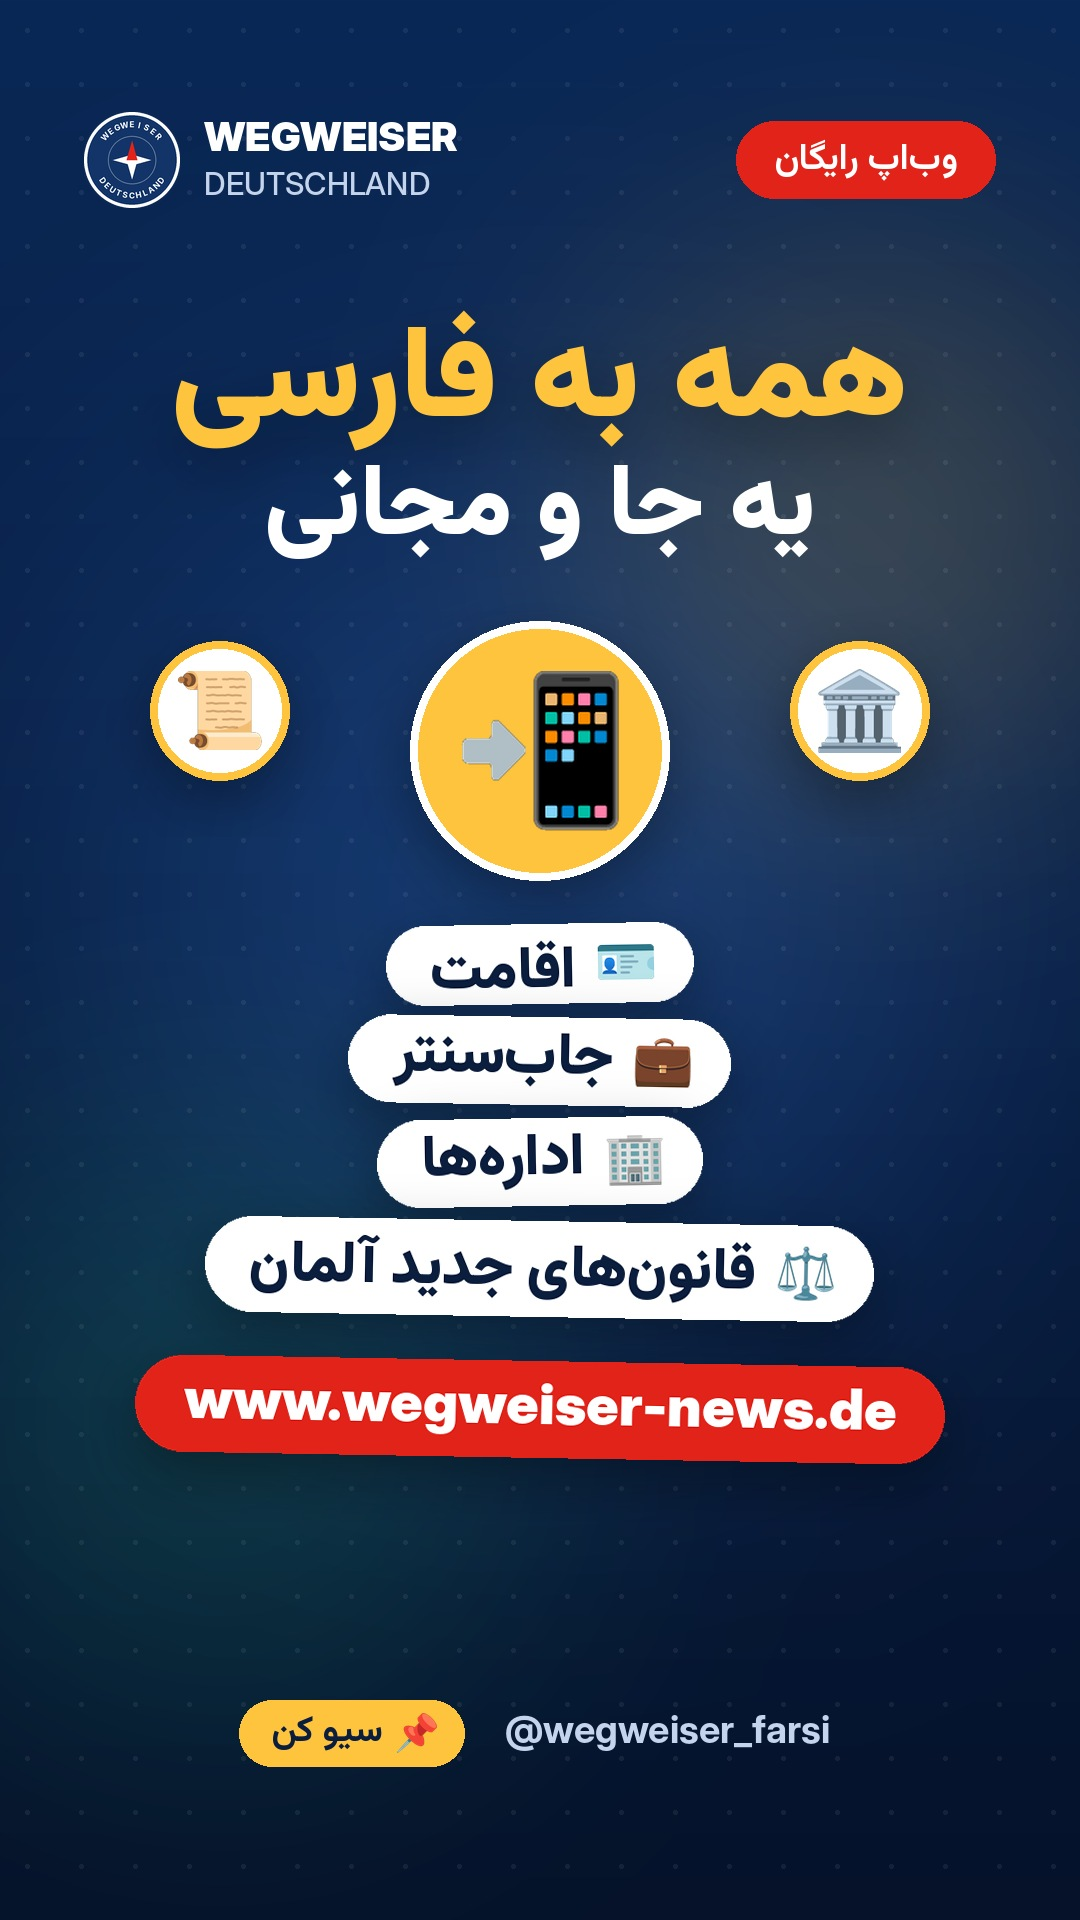
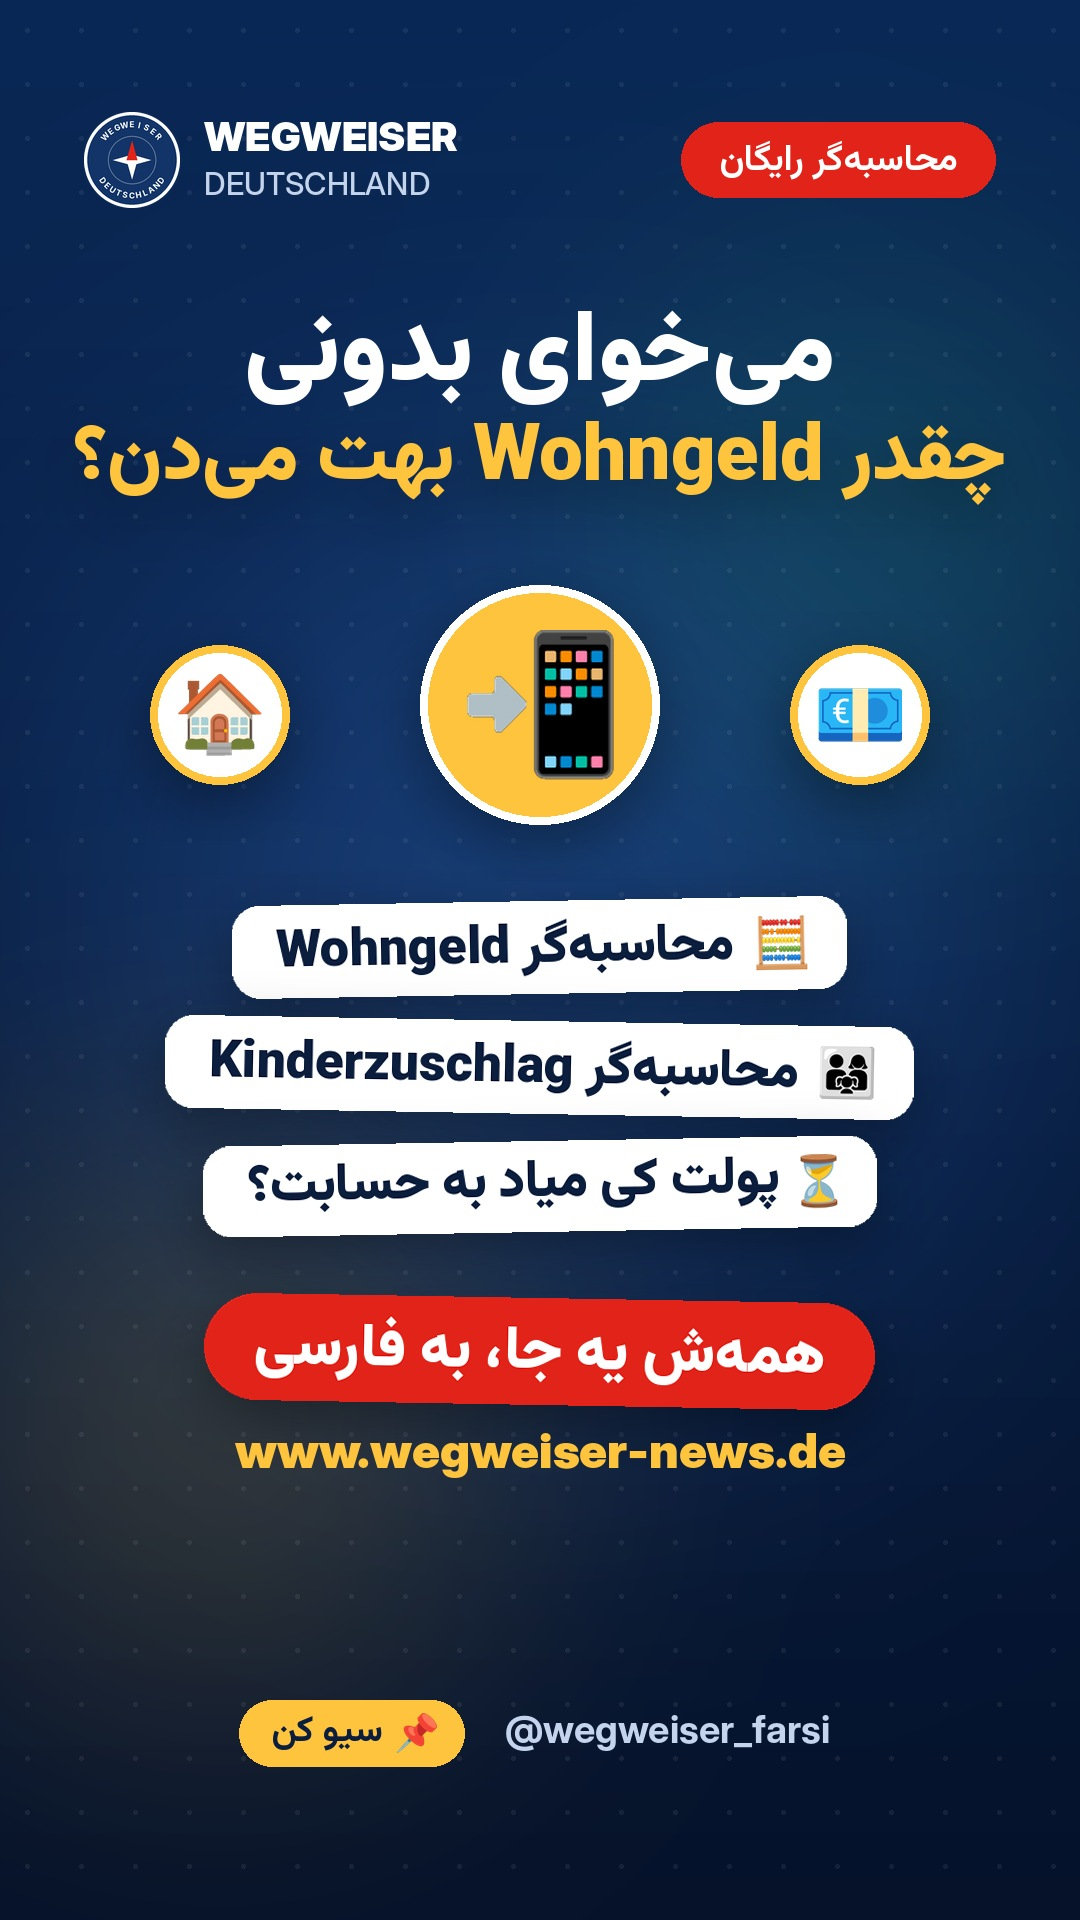
Cover v2 Wegweiser-App-Promo: match video hook (Wohngeld/Kinderzuschlag calculators)
Claude-Session: https://claude.ai/code/session_01HV4etZirwZ3MGzMs2H1Uas

Changed region(s): [[0.0, 0.1562, 1.0, 0.8438], [0.1222, 0.3125, 0.275, 0.4062], [0.6111, 0.0625, 0.8861, 0.125]]

diff --git a/archive/fa/kit/fa_covers.py b/archive/fa/kit/fa_covers.py
@@ -976,10 +976,31 @@ def c_wohngeld():
     place(c, pill(F("خیلیها خبر ندارن!", "Black", 760, 64, WHITE, pad=4), RED, 46, 18), 540, y, sh=True, rot=-1)
     return c
 
+# ======================= App promo v2b – matches the video's hook (Wohngeld/Kinderzuschlag calculators) =======================
+def c_app_promo_rechner():
+    c = background([(540, 900, 430, BLUE, 75), (220, 1420, 300, GOLD, 45), (870, 520, 280, GREEN, 40)])
+    frame(c, "محاسبهگر رایگان", handle="@wegweiser_farsi")
+    y = 300
+    y = place(c, F("میخوای بدونی", "Black", 960, 100, WHITE), 540, y) - 6
+    y = place(c, F("چقدر Wohngeld بهت میدن؟", "Black", 980, 96, GOLD), 540, y, sh=True) + 70
+    iy = y + 120
+    place(c, circle_badge(240, GOLD, emoji("📲", 150), ring=WHITE), 540, iy, sh=True, anchor="mid")
+    place(c, circle_badge(140, WHITE, emoji("🏠", 84), ring=GOLD), 220, iy + 10, sh=True, anchor="mid")
+    place(c, circle_badge(140, WHITE, emoji("💶", 84), ring=GOLD), 860, iy + 10, sh=True, anchor="mid")
+    y = iy + 190
+    rows = [("🧮", "محاسبهگر Wohngeld"), ("👨👩👧", "محاسبهگر Kinderzuschlag"), ("⏳", "پولت کی میاد به حسابت؟")]
+    for i, (e, t) in enumerate(rows):
+        it = pill(hstack([F(t, "Black", 720, 52, INK, pad=4), emoji(e, 54)], 18), WHITE, 40, 14, r=28)
+        y = place(c, it, 540, y, sh=True, rot=(-1 if i % 2 else 1)) + 14
+    y += 40
+    y = place(c, pill(F("همهش یه جا، به فارسی", "Black", 760, 60, WHITE, pad=4), RED, 46, 16), 540, y, sh=True, rot=-1) + 18
+    place(c, T("www.wegweiser-news.de", la("Black", 48), GOLD, pad=4), 540, y)
+    return c
+
 JOBS = {
+    "Wegweiser-App-Promo": c_app_promo_rechner,
     "Wegweiser-Wohngeld": c_wohngeld,
     "Wegweiser-Heizkosten": c_heizkosten,
-    "Wegweiser-App-Promo": c_app_promo,
     "Wegweiser-Business-Eintrag": c_business_eintrag,
     "Wegweiser-BAMF-Heimatreise": c_bamf_heimatreise,
     "Wegweiser-Pass-Farben": c_pass_farben,
